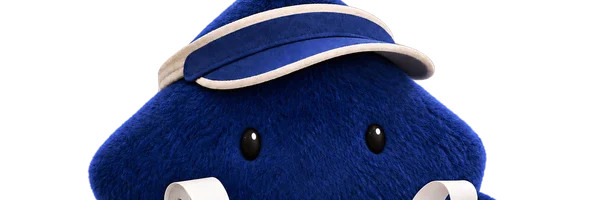
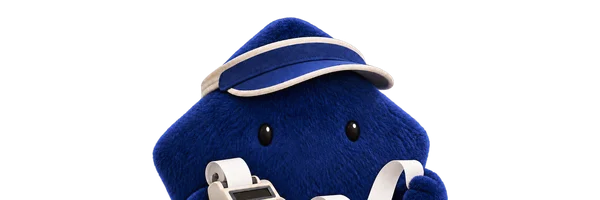
Count costs from 1 September and fix how the costs and purple mascots peek
The Costos section now starts on 1 September and reads every day again from
that date the first time it opens. The costs mascot no longer has its cap cut
off at the top of the sidebar, the purple one rises enough to show the speech
sheet, and the costs guide is sized like the other guides.

diff --git a/back-end/src/services/costReport.js b/back-end/src/services/costReport.js
@@ -4,7 +4,7 @@
 import { BigQuery } from "@google-cloud/bigquery";
 import admin, { db } from "../config/firebase.js";
 
-export const COSTS_START_DATE = "2026-10-16";
+export const COSTS_START_DATE = "2026-09-01";
 const OPENAI_PROJECT_ID = "proj_RGj0l6my7TKzEFsyGPVecYBk";
 const ANTHROPIC_WORKSPACE_ID = "wrkspc_01Y8aP9nCbQPJjbjhG5hFWQV";
 const GCP_PROJECT_ID = process.env.GCP_PROJECT_ID || "consultores-dev";
@@ -170,7 +170,7 @@ export async function collectCosts(now = new Date(), lastStoredDay = null) {
     }
     batch.set(costsCollection.doc(day), { date: day, ...usage[day], providers, collectedAt: admin.firestore.FieldValue.serverTimestamp() }, { merge: true });
   }
-  batch.set(metaRef, { collectedAt: now, lastDay: toDay, errors });
+  batch.set(metaRef, { collectedAt: now, lastDay: toDay, startDate: COSTS_START_DATE, errors });
   await batch.commit();
   if (Object.keys(errors).length) console.warn("Costos: proveedores con error", errors);
 }
@@ -182,8 +182,10 @@ export async function ensureCollected(now = new Date()) {
   const meta = await metaRef.get();
   const last = meta.exists ? meta.data().collectedAt?.toDate?.() : null;
   const failed = meta.exists && Object.keys(meta.data().errors || {}).length > 0;
-  if (last && last >= latestCutoff(now) && (!failed || now - last < 60 * 60 * 1000)) return;
-  running ||= collectCosts(now, meta.exists ? meta.data().lastDay : null).finally(() => { running = null; });
+  // A new start date (or a reset) reads every day again from the start.
+  const fromStart = !meta.exists || meta.data().startDate !== COSTS_START_DATE;
+  if (!fromStart && last && last >= latestCutoff(now) && (!failed || now - last < 60 * 60 * 1000)) return;
+  running ||= collectCosts(now, fromStart ? null : meta.data().lastDay).finally(() => { running = null; });
   await running;
 }
 

diff --git a/front-end/src/pages/Costs.jsx b/front-end/src/pages/Costs.jsx
@@ -12,7 +12,7 @@ import "./Costs.css";
 
 const API_BASE_URL = import.meta.env.VITE_API_BASE_URL || "http://localhost:3001";
 // Mirrors back-end/src/services/costReport.js (COSTS_START_DATE and PROVIDER_IDS).
-const COSTS_START = dayjs("2026-10-16");
+const COSTS_START = dayjs("2026-09-01");
 
 const PROVIDERS = [
   { id: "assembly", name: "AssemblyAI", color: "#BB8AFF", source: "Calculado: minutos × US$0,17/h", calculated: true },
